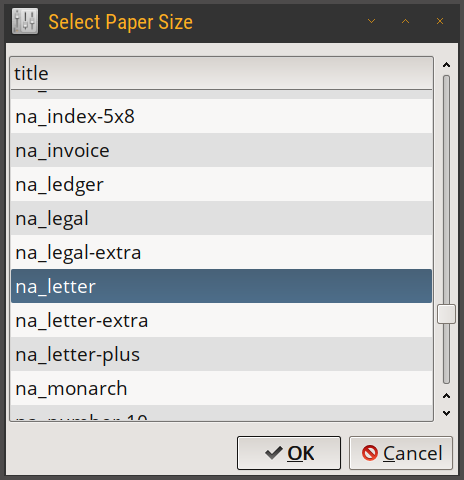
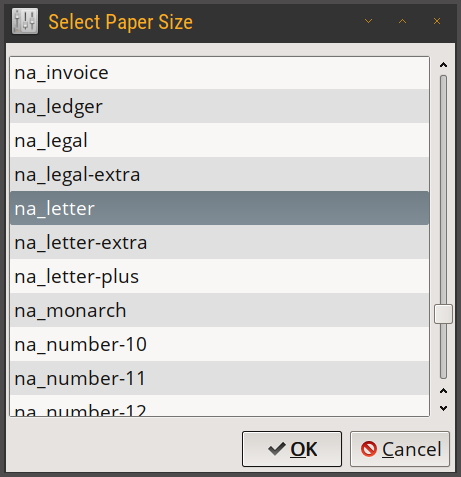
sel paper dlg: hide column's header

Changed region(s): [[0.0, 0.0294, 0.9718, 0.9979]]

diff --git a/docs/index.htm b/docs/index.htm
@@ -98,7 +98,7 @@ Edit value - color configuration keys:
 
 <br />
 <hr />
-updated: 20/Jun/2020 &nbsp;&nbsp;&nbsp;&nbsp; copyright (c) 2017-2020
+updated: 31/Jan/2021 &nbsp;&nbsp;&nbsp;&nbsp; copyright (c) 2017-2021
 <a href='https://github.com/graahnul-grom'>dmn</a>
 <br />
 

diff --git a/dlg.c b/dlg.c
@@ -1,7 +1,7 @@
 /*
  * lepton-conf - Lepton EDA configuration utility.
  * https://github.com/graahnul-grom/lepton-conf
- * Copyright (C) 2017-2020 dmn <graahnul.grom@gmail.com>
+ * Copyright (C) 2017-2021 dmn <graahnul.grom@gmail.com>
  * License: GPL2 - same as Lepton EDA, see
  * https://github.com/lepton-eda/lepton-eda
  */
@@ -356,12 +356,14 @@ run_dlg_list_sel( cfg_edit_dlg* dlg,
     //
     GtkCellRenderer* ren = gtk_cell_renderer_text_new();
     GtkTreeViewColumn* col = gtk_tree_view_column_new();
-    gtk_tree_view_column_set_title( col, "title" );
+    gtk_tree_view_column_set_title( col, "Media Name" );
     gtk_tree_view_column_pack_start( col, ren, TRUE );
 
     gtk_tree_view_column_add_attribute( col, ren, "text", 0 );
 
     gtk_tree_view_append_column( tree_v, col );
+
+    gtk_tree_view_set_headers_visible( tree_v, FALSE );
     //
     //
 
